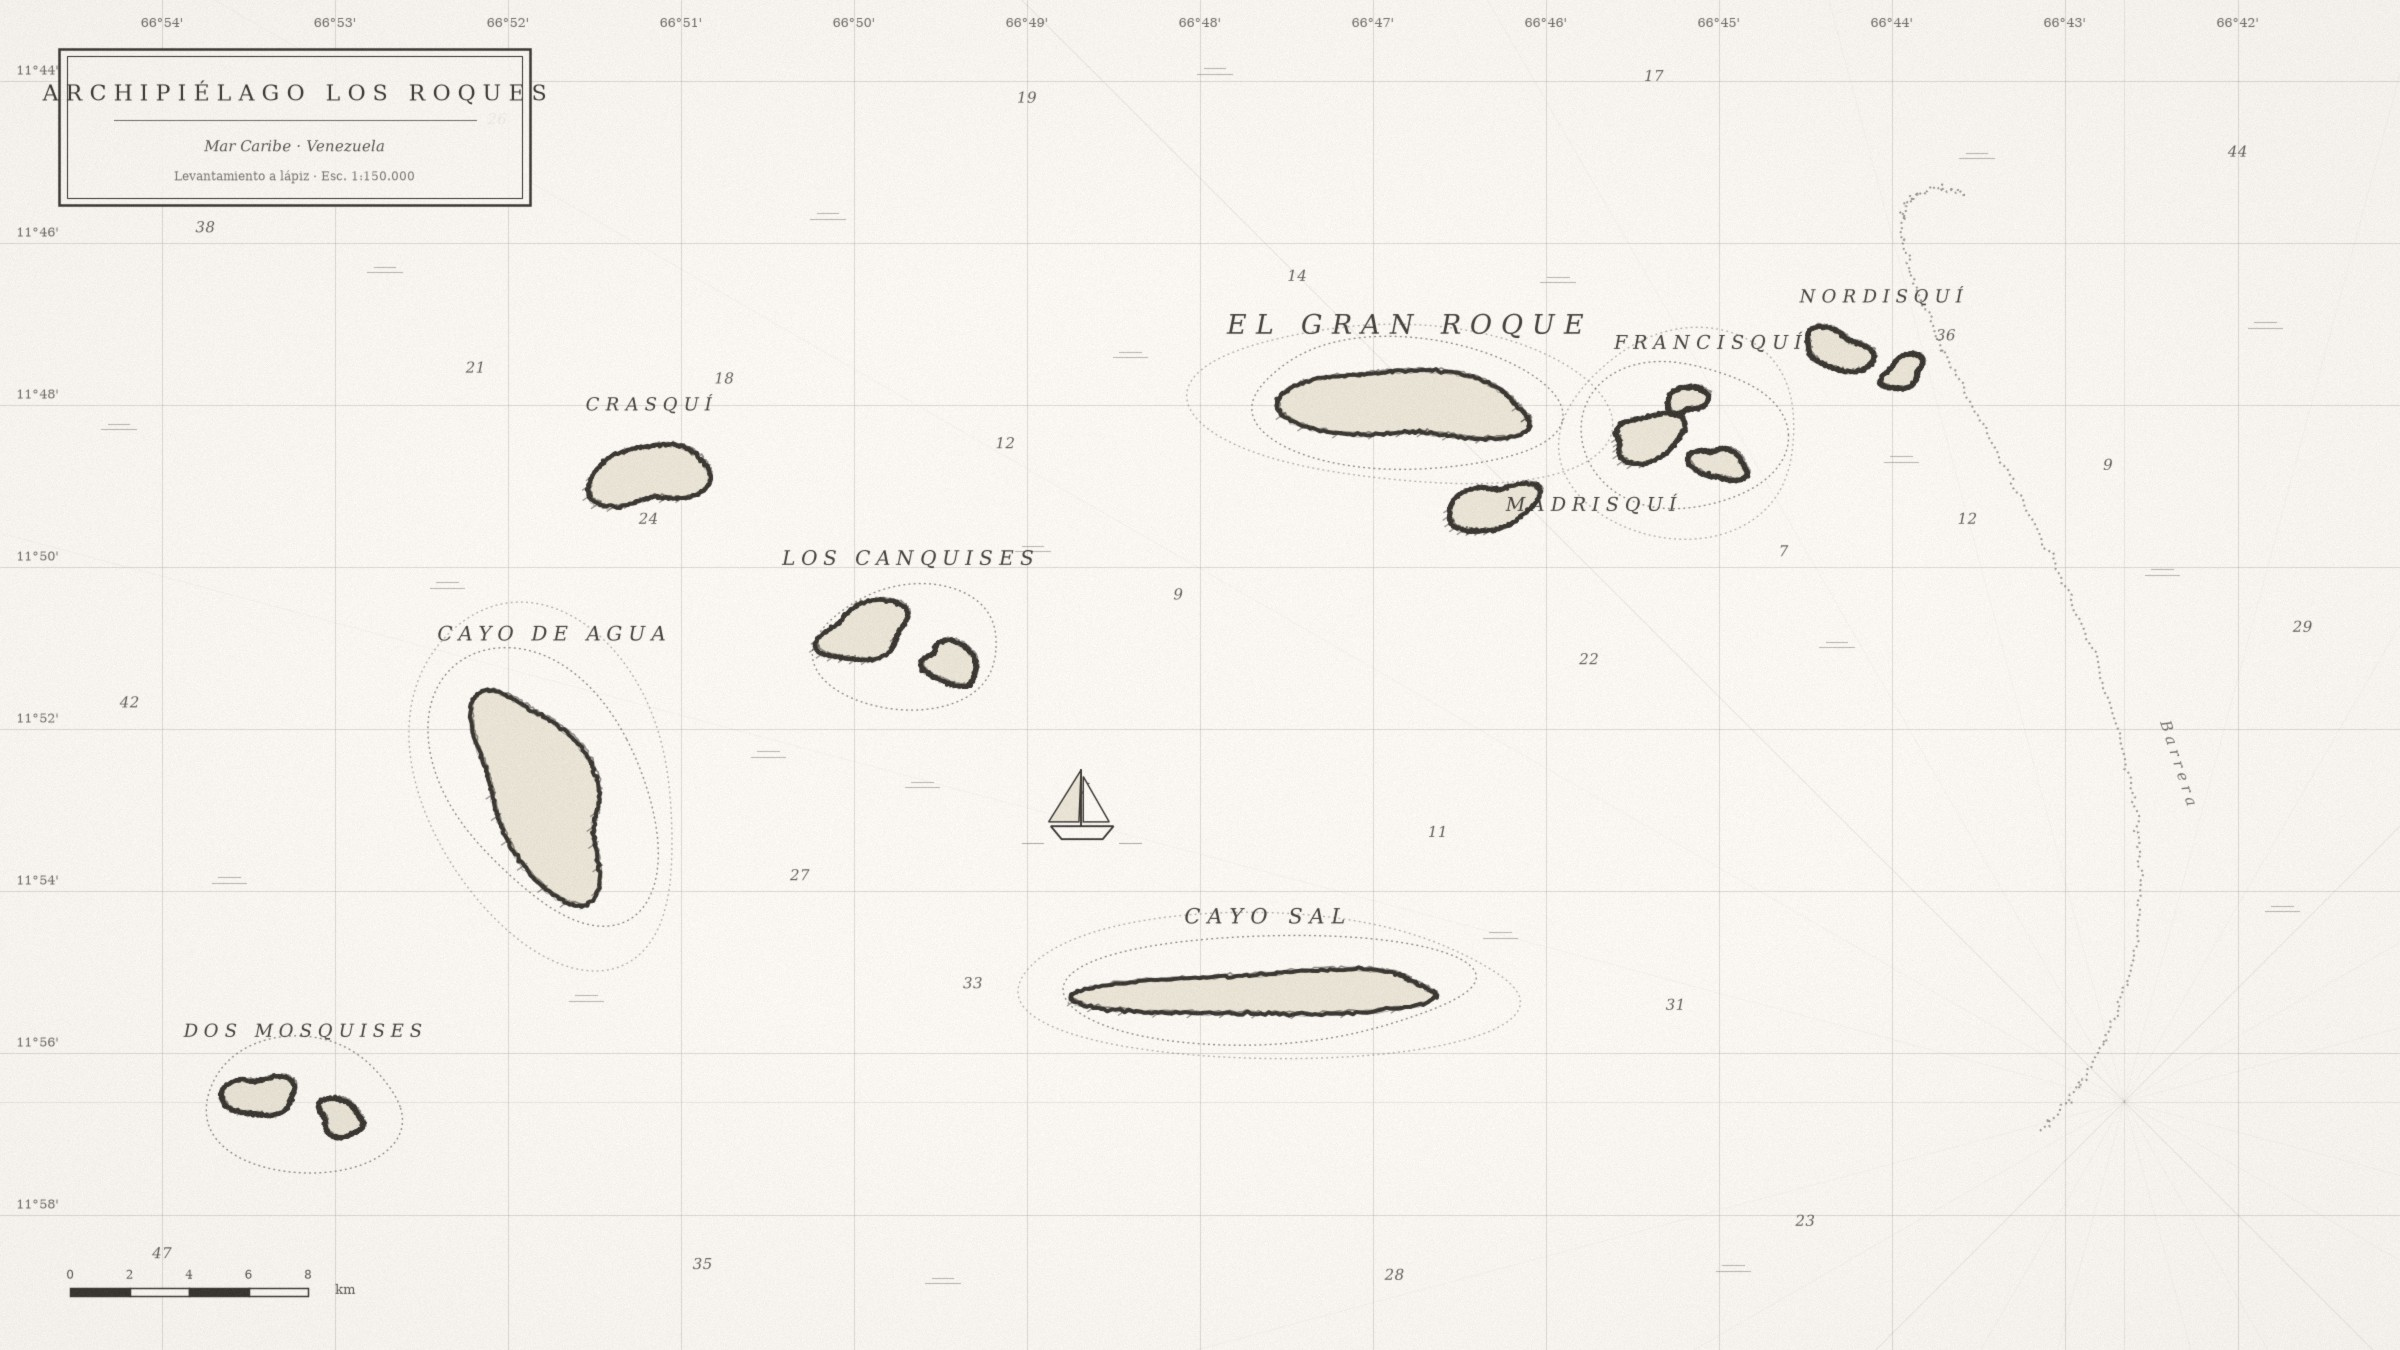
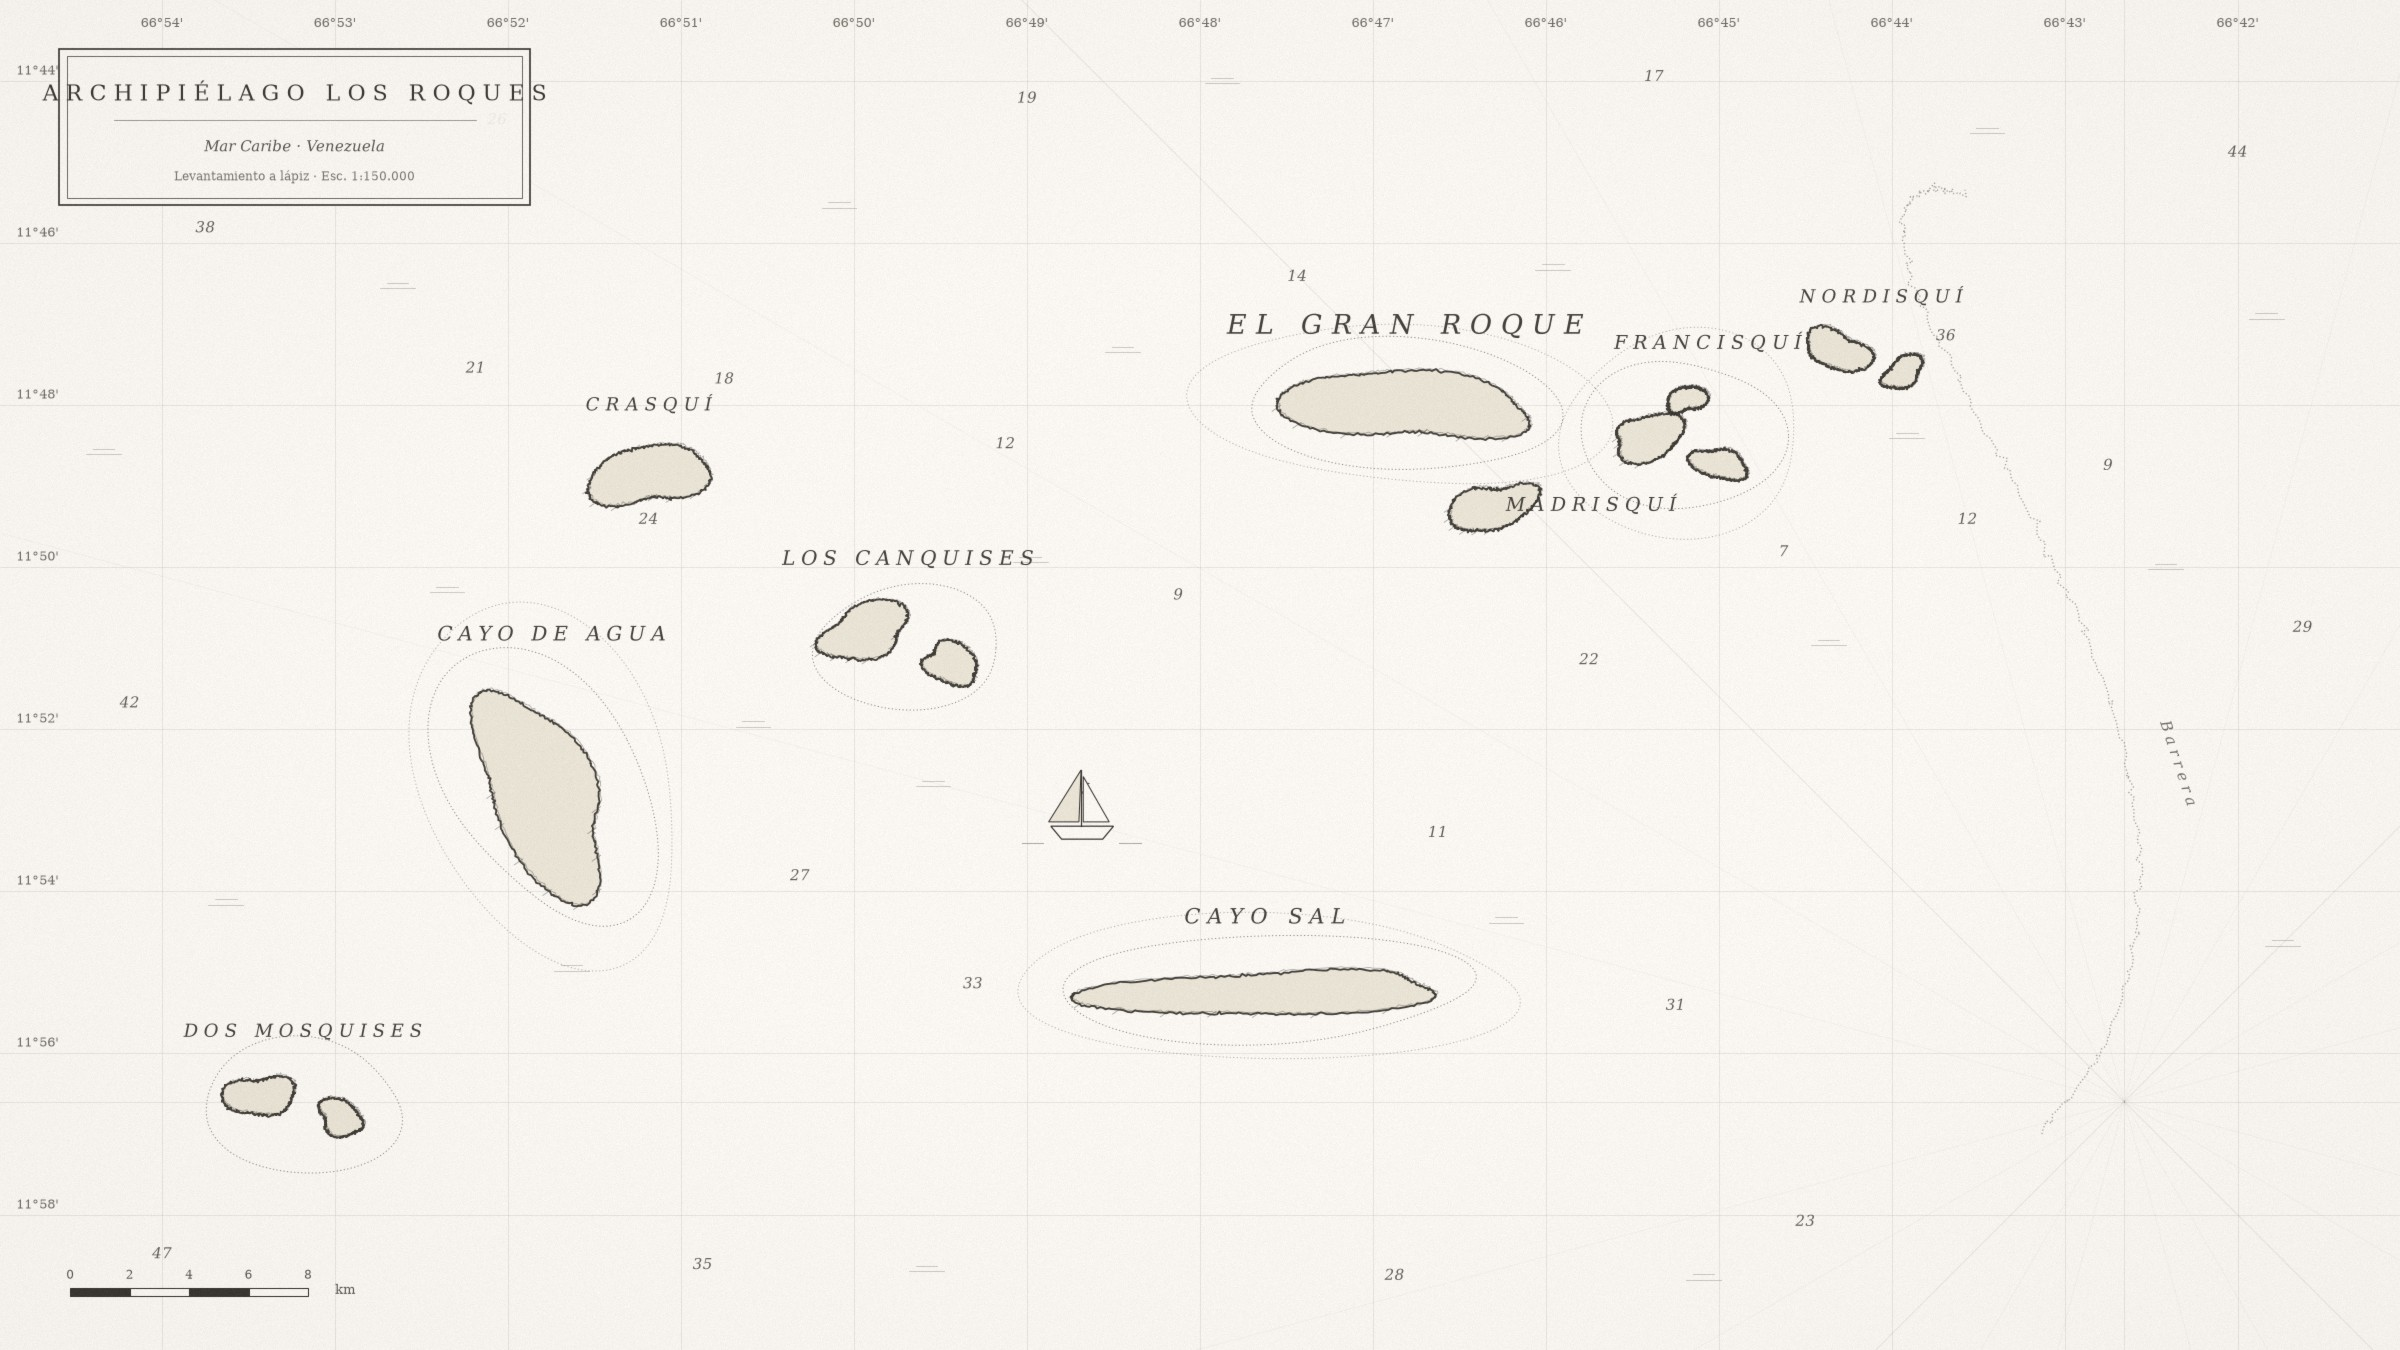
Galería móvil fluida (scrub táctil 0.5, sin efectos por-frame en touch, ignoreMobileResize); sección mapa compacta; carta y brújula con trazos delicados

diff --git a/galeria.html b/galeria.html
@@ -2503,6 +2503,10 @@
     }
     if (window.matchMedia('(prefers-reduced-motion: reduce)').matches) return;
     gsap.registerPlugin(ScrollTrigger);
+    /* en móvil, la barra del navegador cambia el viewport al scrollear y
+       provocaba recálculos a mitad de gesto (saltos foto a foto) */
+    ScrollTrigger.config({ ignoreMobileResize: true });
+    var isTouch = window.matchMedia('(hover: none)').matches;
     if (window.lenis) window.lenis.on('scroll', ScrollTrigger.update);
 
     /* Hero: título con clip-path reveal de abajo hacia arriba + hint */
@@ -2535,7 +2539,7 @@
     var skewSetter = gsap.quickSetter(galTrack, 'skewX', 'deg');
     var clampSkew = gsap.utils.clamp(-3, 3);
     var skewTarget = 0, skewCurrent = 0;
-    gsap.ticker.add(function(){
+    if (!isTouch) gsap.ticker.add(function(){
         skewTarget *= 0.9;
         skewCurrent += (skewTarget - skewCurrent) * 0.15;
         if (Math.abs(skewCurrent) < 0.02 && Math.abs(skewTarget) < 0.02) { skewCurrent = 0; }
@@ -2571,14 +2575,14 @@
             trigger: galSection,
             start: 'top top',
             end: 'bottom bottom',
-            scrub: 2.4,
+            scrub: isTouch ? 0.5 : 2.4,
             invalidateOnRefresh: true,
             onUpdate: function(self){
                 galBar.style.width = (self.progress * 100) + '%';
                 var idx = Math.min(galItems.length, Math.max(1, Math.round(self.progress * galItems.length) + 1));
                 setCounter(String(idx).padStart(2, '0'));
-                skewTarget = clampSkew(self.getVelocity() / -350);
-                updateFocus();
+                if (!isTouch) skewTarget = clampSkew(self.getVelocity() / -350);
+                if (!isTouch) updateFocus();
             }
         }
     });
@@ -2594,14 +2598,16 @@
             clipPath: 'inset(0% 0% 0% 0%)', duration: 0.8, ease: 'power3.out',
             scrollTrigger: { trigger: item, containerAnimation: galTween, start: 'left 105%', once: true }
         });
-        gsap.fromTo(img, { xPercent: -8 }, {
-            xPercent: 8, ease: 'none',
-            scrollTrigger: { trigger: item, containerAnimation: galTween, start: 'left right', end: 'right left', scrub: true }
-        });
-        if (cap) gsap.fromTo(cap, { xPercent: 4 }, {
-            xPercent: -4, ease: 'none',
-            scrollTrigger: { trigger: item, containerAnimation: galTween, start: 'left right', end: 'right left', scrub: true }
-        });
+        if (!isTouch) {
+            gsap.fromTo(img, { xPercent: -8 }, {
+                xPercent: 8, ease: 'none',
+                scrollTrigger: { trigger: item, containerAnimation: galTween, start: 'left right', end: 'right left', scrub: true }
+            });
+            if (cap) gsap.fromTo(cap, { xPercent: 4 }, {
+                xPercent: -4, ease: 'none',
+                scrollTrigger: { trigger: item, containerAnimation: galTween, start: 'left right', end: 'right left', scrub: true }
+            });
+        }
     });
 
     /* Entrada cinematográfica de las 3 primeras imágenes */

diff --git a/index.html b/index.html
@@ -1819,8 +1819,8 @@
         .chart-scene {
             position: relative;
             transform-style: preserve-3d;
-            height: min(92vh, 860px);
-            min-height: 560px;
+            height: min(68vh, 600px);
+            min-height: 460px;
             display: flex; align-items: center; justify-content: center;
         }
         .chart-layer { will-change: transform; }